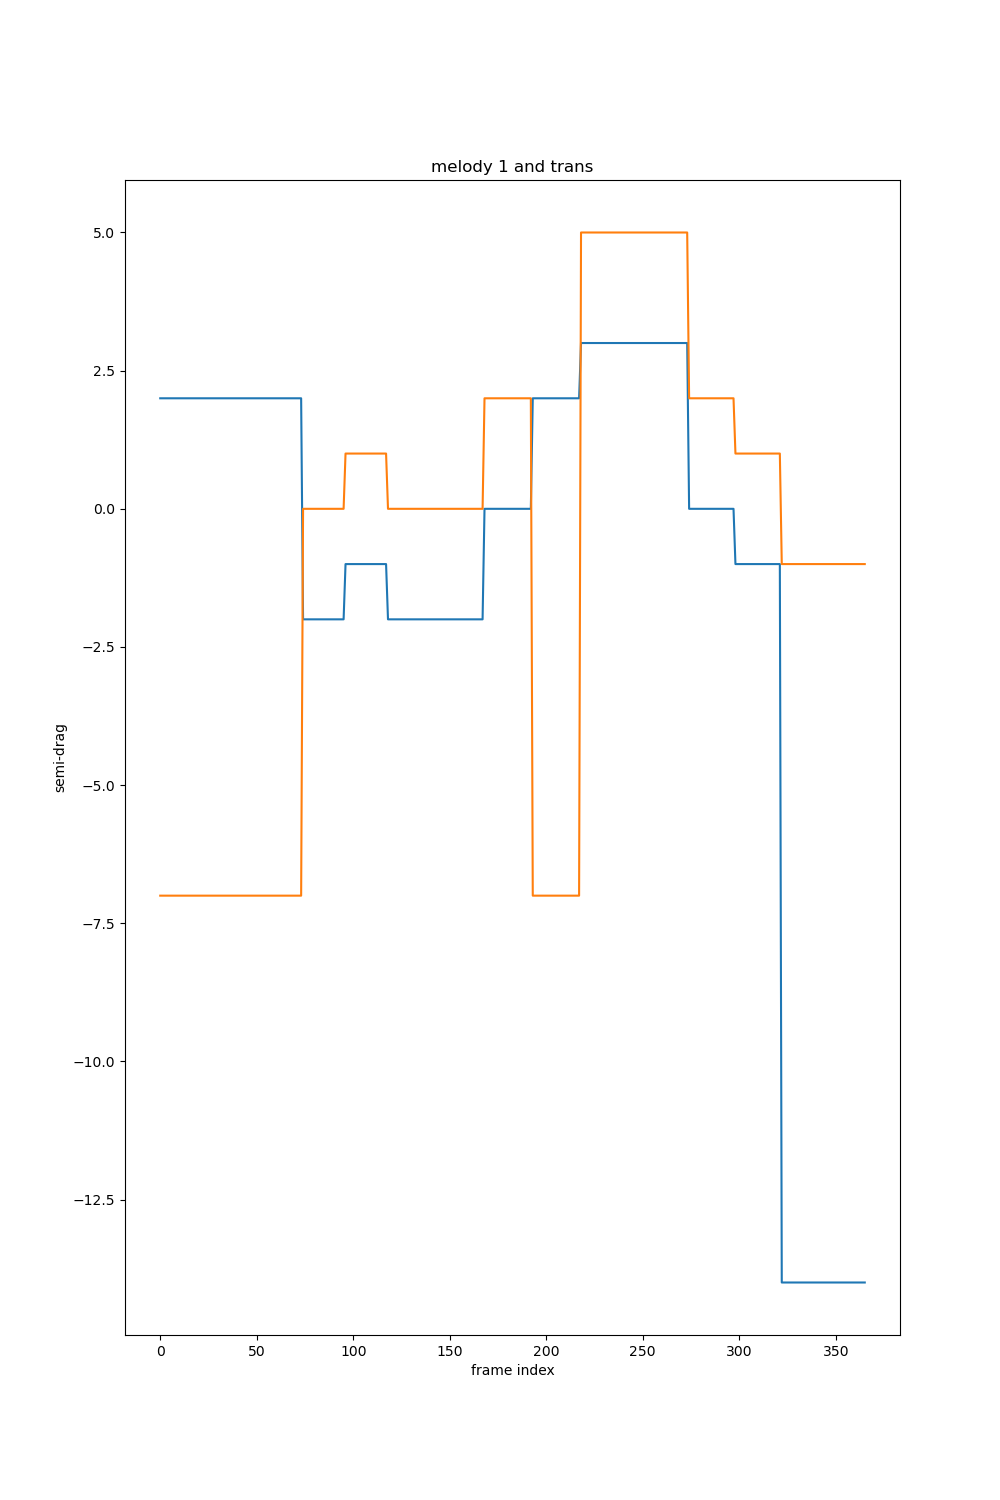
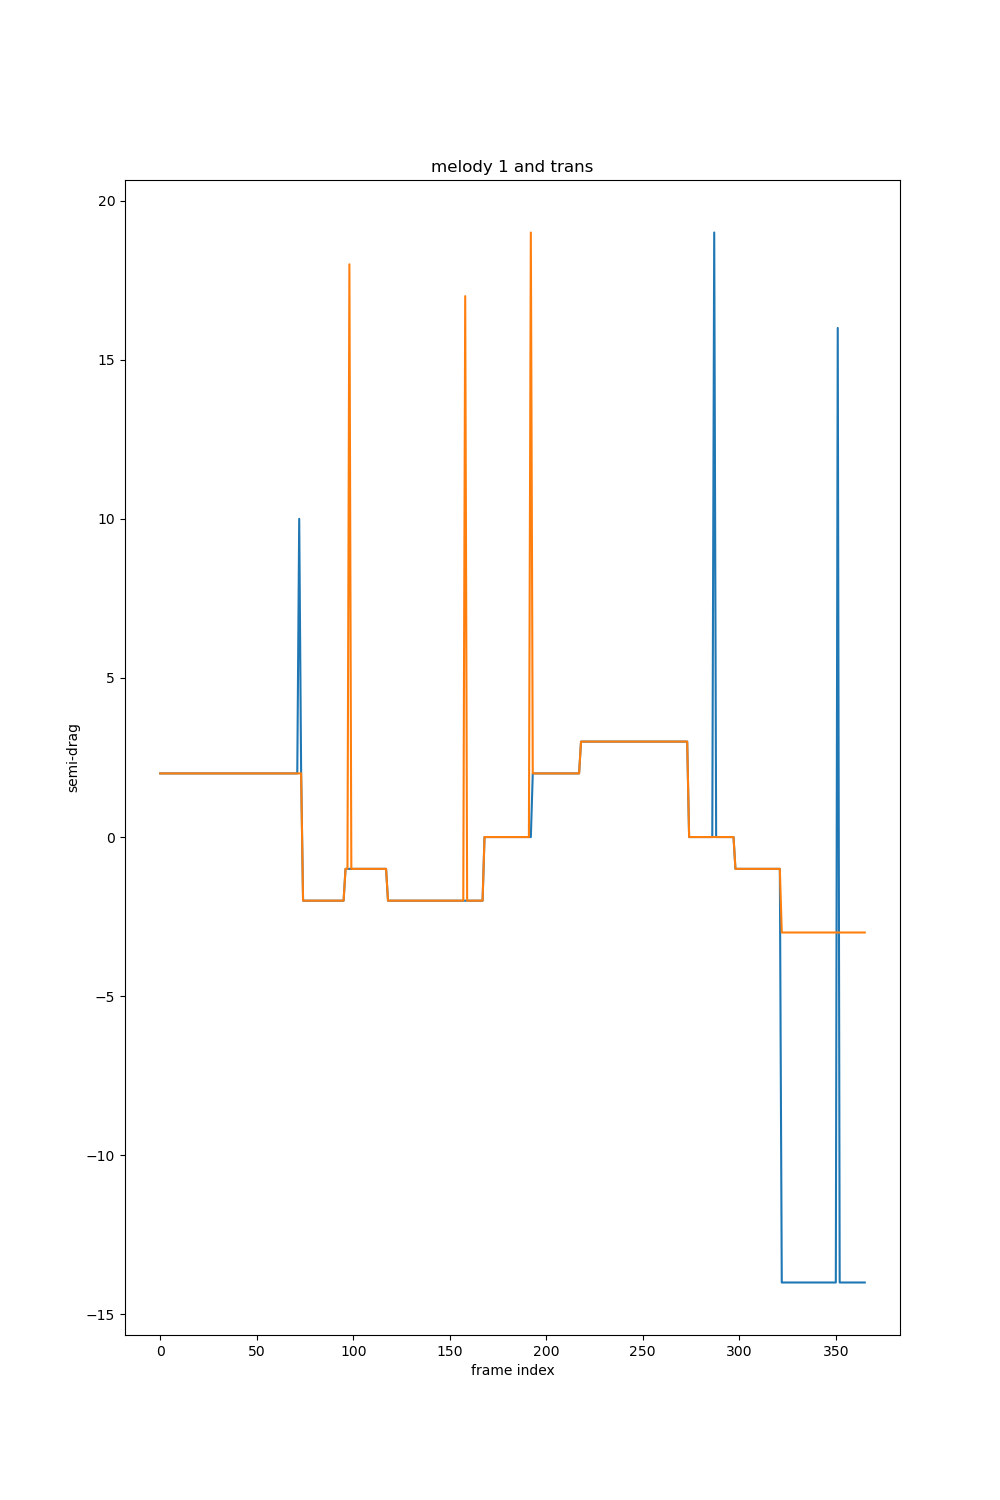
.

diff --git a/assignment2/Feature_Extractor.py b/assignment2/Feature_Extractor.py
@@ -117,8 +117,6 @@ def analysis_note(test_tone):
 
     # print("The test tone belongs to octave C{}".format(octave))
     semitones_specific = semi_tones[octave - 1]
-    # print(semitones_specific)
-    # print([2**i for i in semitones_specific])
     test_tone_log = np.log2(test_tone)
     semi_tone_relative = 0
 
@@ -141,8 +139,13 @@ def analysis_note(test_tone):
     note = note_name(semi_tone_relative)
     return octave, semi_tone_relative, semitone_absolute, note
 
-
+from collections import Counter
 def semi_adjust(filter_pitch):
+    index_change = np.random.randint(0, len(filter_pitch), 3)
+    for i in index_change:
+        temp = 3
+        filter_pitch[i] = temp * filter_pitch[i]
+
     semi_tone_absolute = np.zeros(len(filter_pitch))
 
     for i in range(len(filter_pitch)):
@@ -151,15 +154,36 @@ def semi_adjust(filter_pitch):
 
     # transpose invariant
     # relative interval should stay the same, all drag to C1
+
     mid = np.median(semi_tone_absolute)
     semi_drag = semi_tone_absolute - mid
 
 
-    # octave invariant(suddenly one note change)
+    # octave invariant(suddenly one or few frequency change)
     # how to define a sudden jump note
     # for i in range(len(semi_drag)):
     #     if semi_drag[i] > 12 or semi_drag[i] < 12:    # limitation, how to perceive octave jump? worth thinking
     #         semi_drag[i] = semi_drag[i] % 12
+
+    # for i in range(len(filter_pitch)):
+    #     if filter_pitch[i]
+    #  10,10,10,10,10,5,5,5,5,5,5,5,17,5,5,5,5,17,17,5,5,5,5,17,17,17
+
+    threshold = 15  # window length = (threshold-1)*2
+    for i in range(threshold, (len(semi_tone_absolute)-threshold)):
+        # print(i, i-threshold+1 ,i+threshold-1)
+        temp_list = list(semi_tone_absolute[i-threshold+1:i+threshold-1])
+        # if len(set(temp_list)) > 1:
+        #     semi_tone_absolute[i] = temp_list[0]
+        count_dict = dict(Counter(temp_list))
+        if len(list(count_dict.values())) > 1:
+            min_element = list(count_dict.keys())[list(count_dict.values()).index(min(count_dict.values()))]
+            max_element = list(count_dict.keys())[list(count_dict.values()).index(max(count_dict.values()))]
+            if min_element == semi_tone_absolute[i] and count_dict[min_element] < threshold:
+                semi_tone_absolute[i] = max_element
+
+
+
     return semi_tone_absolute, semi_drag
 
 

diff --git a/assignment2/test.py b/assignment2/test.py
@@ -32,7 +32,8 @@ pitch1 = frIsequence1[0, :]
 
 # test if transposition invariant
 frIsequence1_trans = np.copy(frIsequence1)
-shift = 7
+frIsequence1_trans_try = np.copy(frIsequence1)
+shift = 5
 for i in range(0, frame_num1):
     # f2 = f1 * (2 ^ (1 / 12)) ^ n
     frIsequence1_trans[0, i] = frIsequence1[0, i] * 2**(shift/12)
@@ -49,8 +50,6 @@ pitch1_trans = frIsequence1_trans[0, :]
 #     print("Zero exists in the pitch1_trans.")
 # else:
 #     print("Zero does not exist in pitch1_trans.")
-#
-
 
 
 # Feature

diff --git a/assignment2/try.py b/assignment2/try.py
@@ -55,6 +55,8 @@ print(octave_C_log)
 # # test_note2 = 2**8
 # print(test_note)
 # print(test_note2)
+
+# test two notes with transposition, standard
 octave, semi_tone_relative, semitone_absolute, note = analysis_note(168.43556171751226)
 print(octave, semi_tone_relative, semitone_absolute, note)
 
